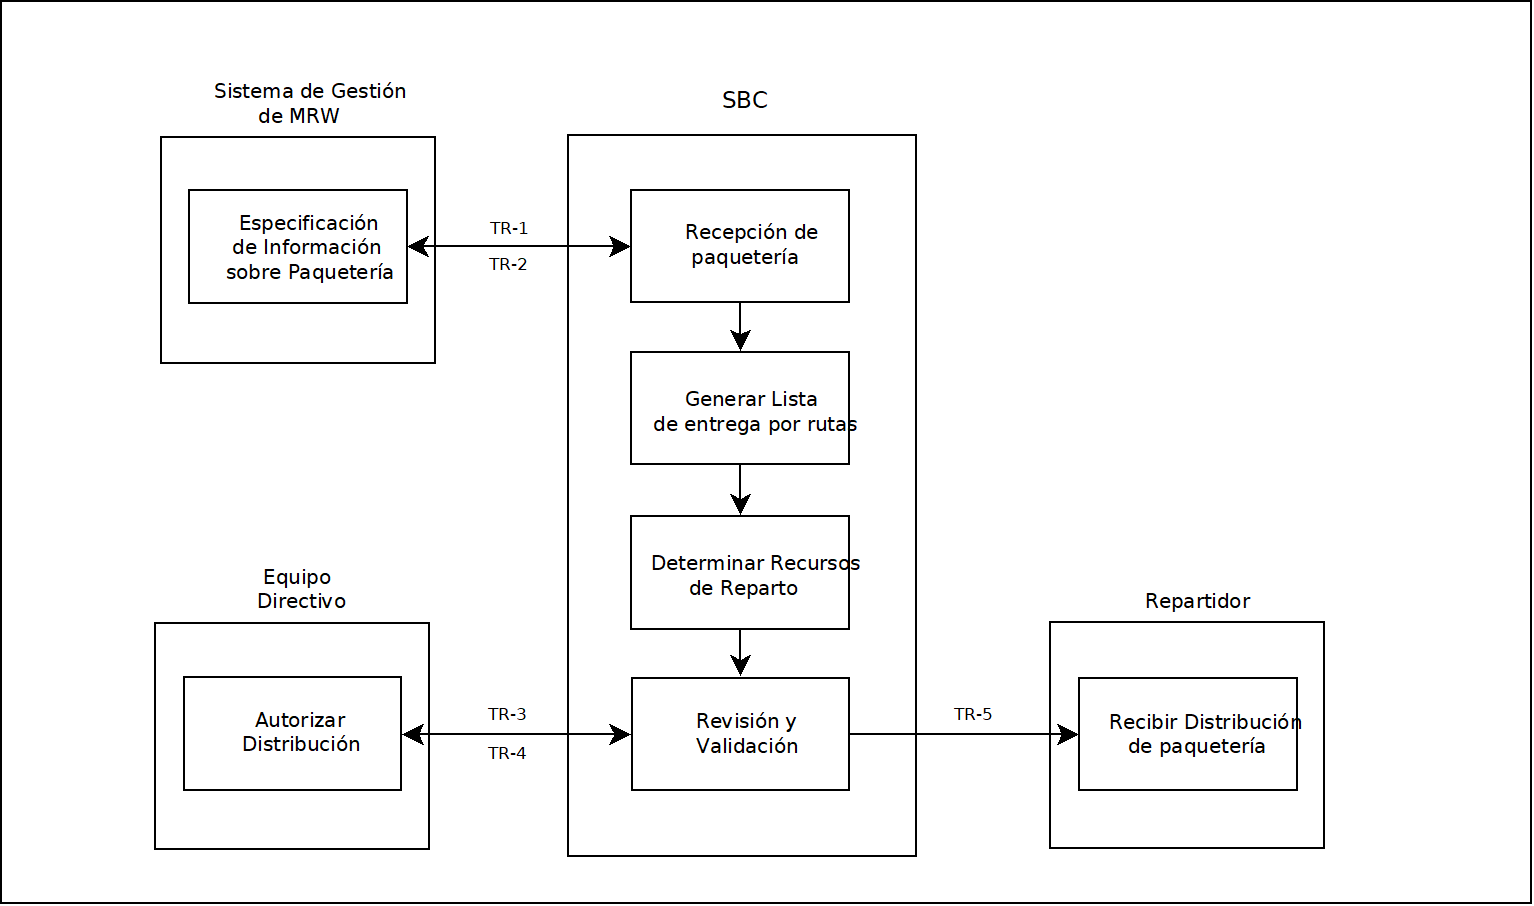
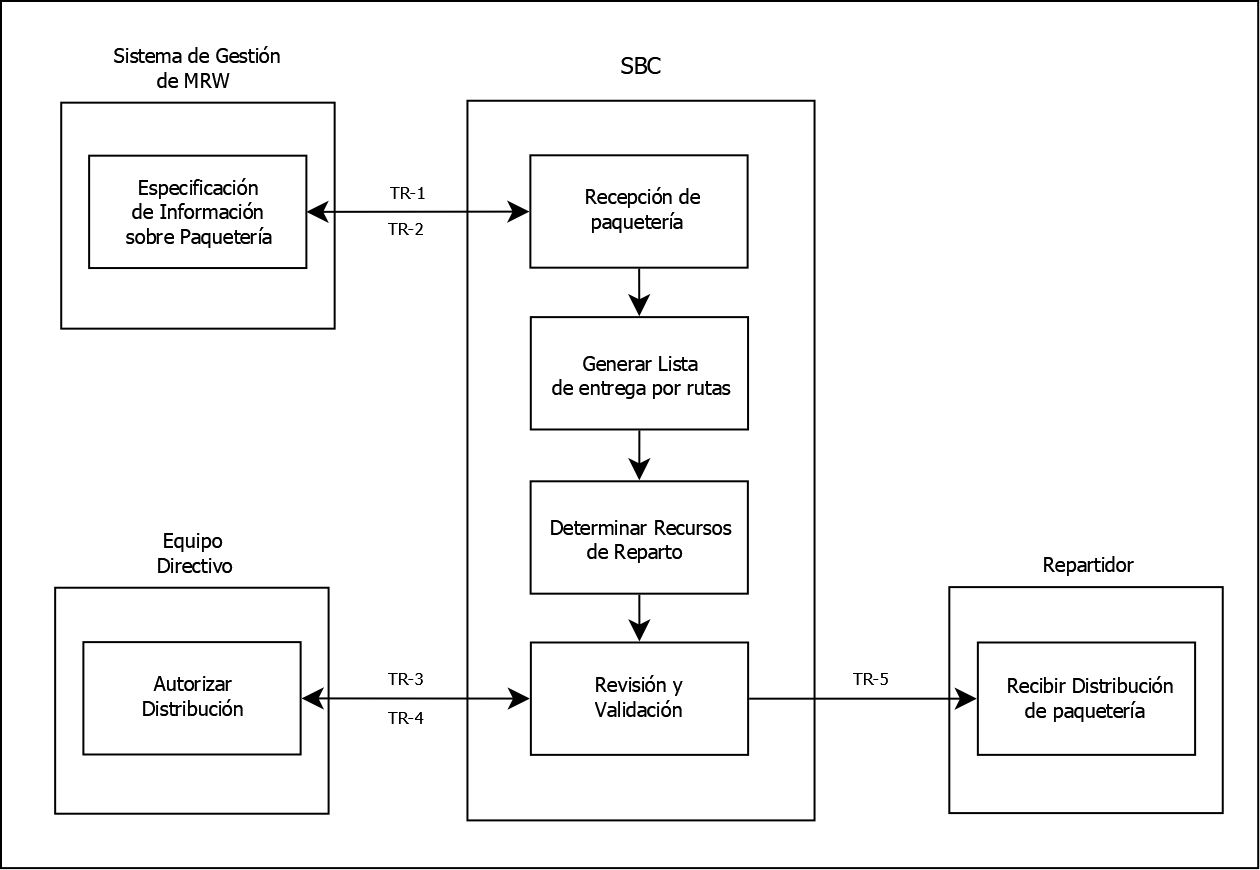
Ajuste de la imagenes de comunicación general en Latex

diff --git a/contido/Tema_4.tex b/contido/Tema_4.tex
@@ -9,18 +9,18 @@
 
 \chapter{Modelo de Comunicación}
 
-\section{Plan de comunicación}
+\section{Plan de comunicación de comunicación general}
 En este caso, la comunicación que se realiza es simplemente entre nuestro sistema y otros agentes para obtener dados referentes al mercado.
 
 \subsection{Diagrama de diálogo}
 
   \begin{figure}[H]
     \centering
-    \includegraphics[scale=0.50]{imaxes/Comunicaciones.png}
+    \includegraphics[scale=0.23]{imaxes/Comunicaciones.png}
     \caption{\label{fig:Comunicaciones}Diagrama de dialogo}
   \end{figure}
   
-\subsection{informacion de control de las transacciones}
+\subsection{Informacion de control de las transacciones}
 
   \begin{figure}[H]
     \centering
@@ -138,3 +138,4 @@ En este caso, la comunicación que se realiza es simplemente entre nuestro siste
 \end{table}
 
 
+\subsection{Especificación de las transacciones}
